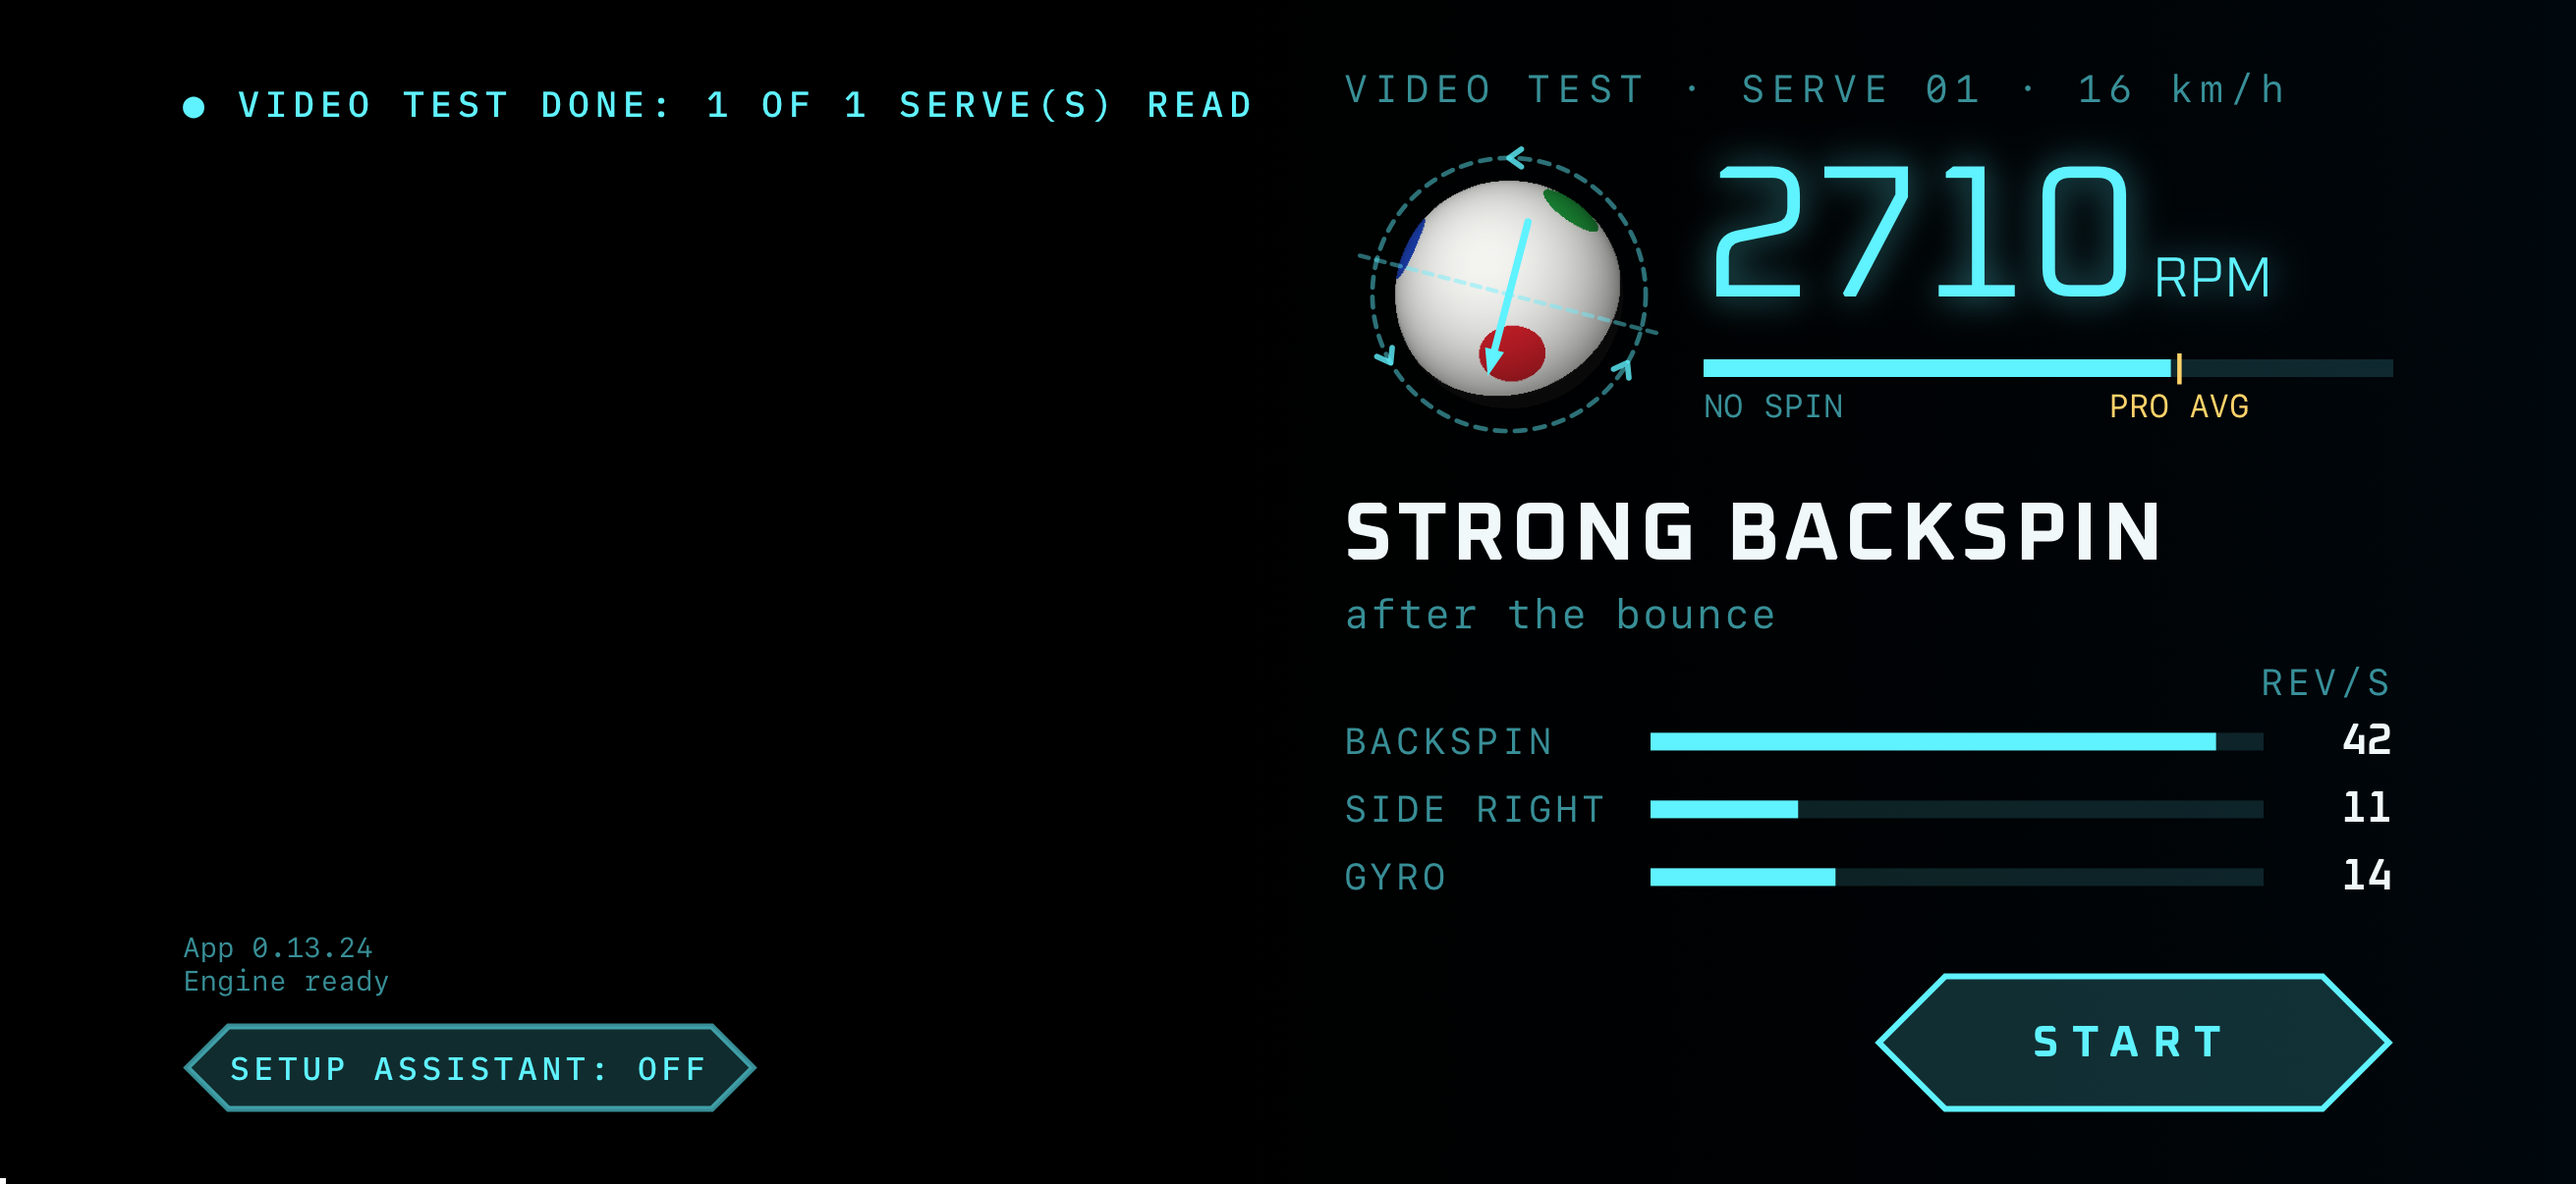
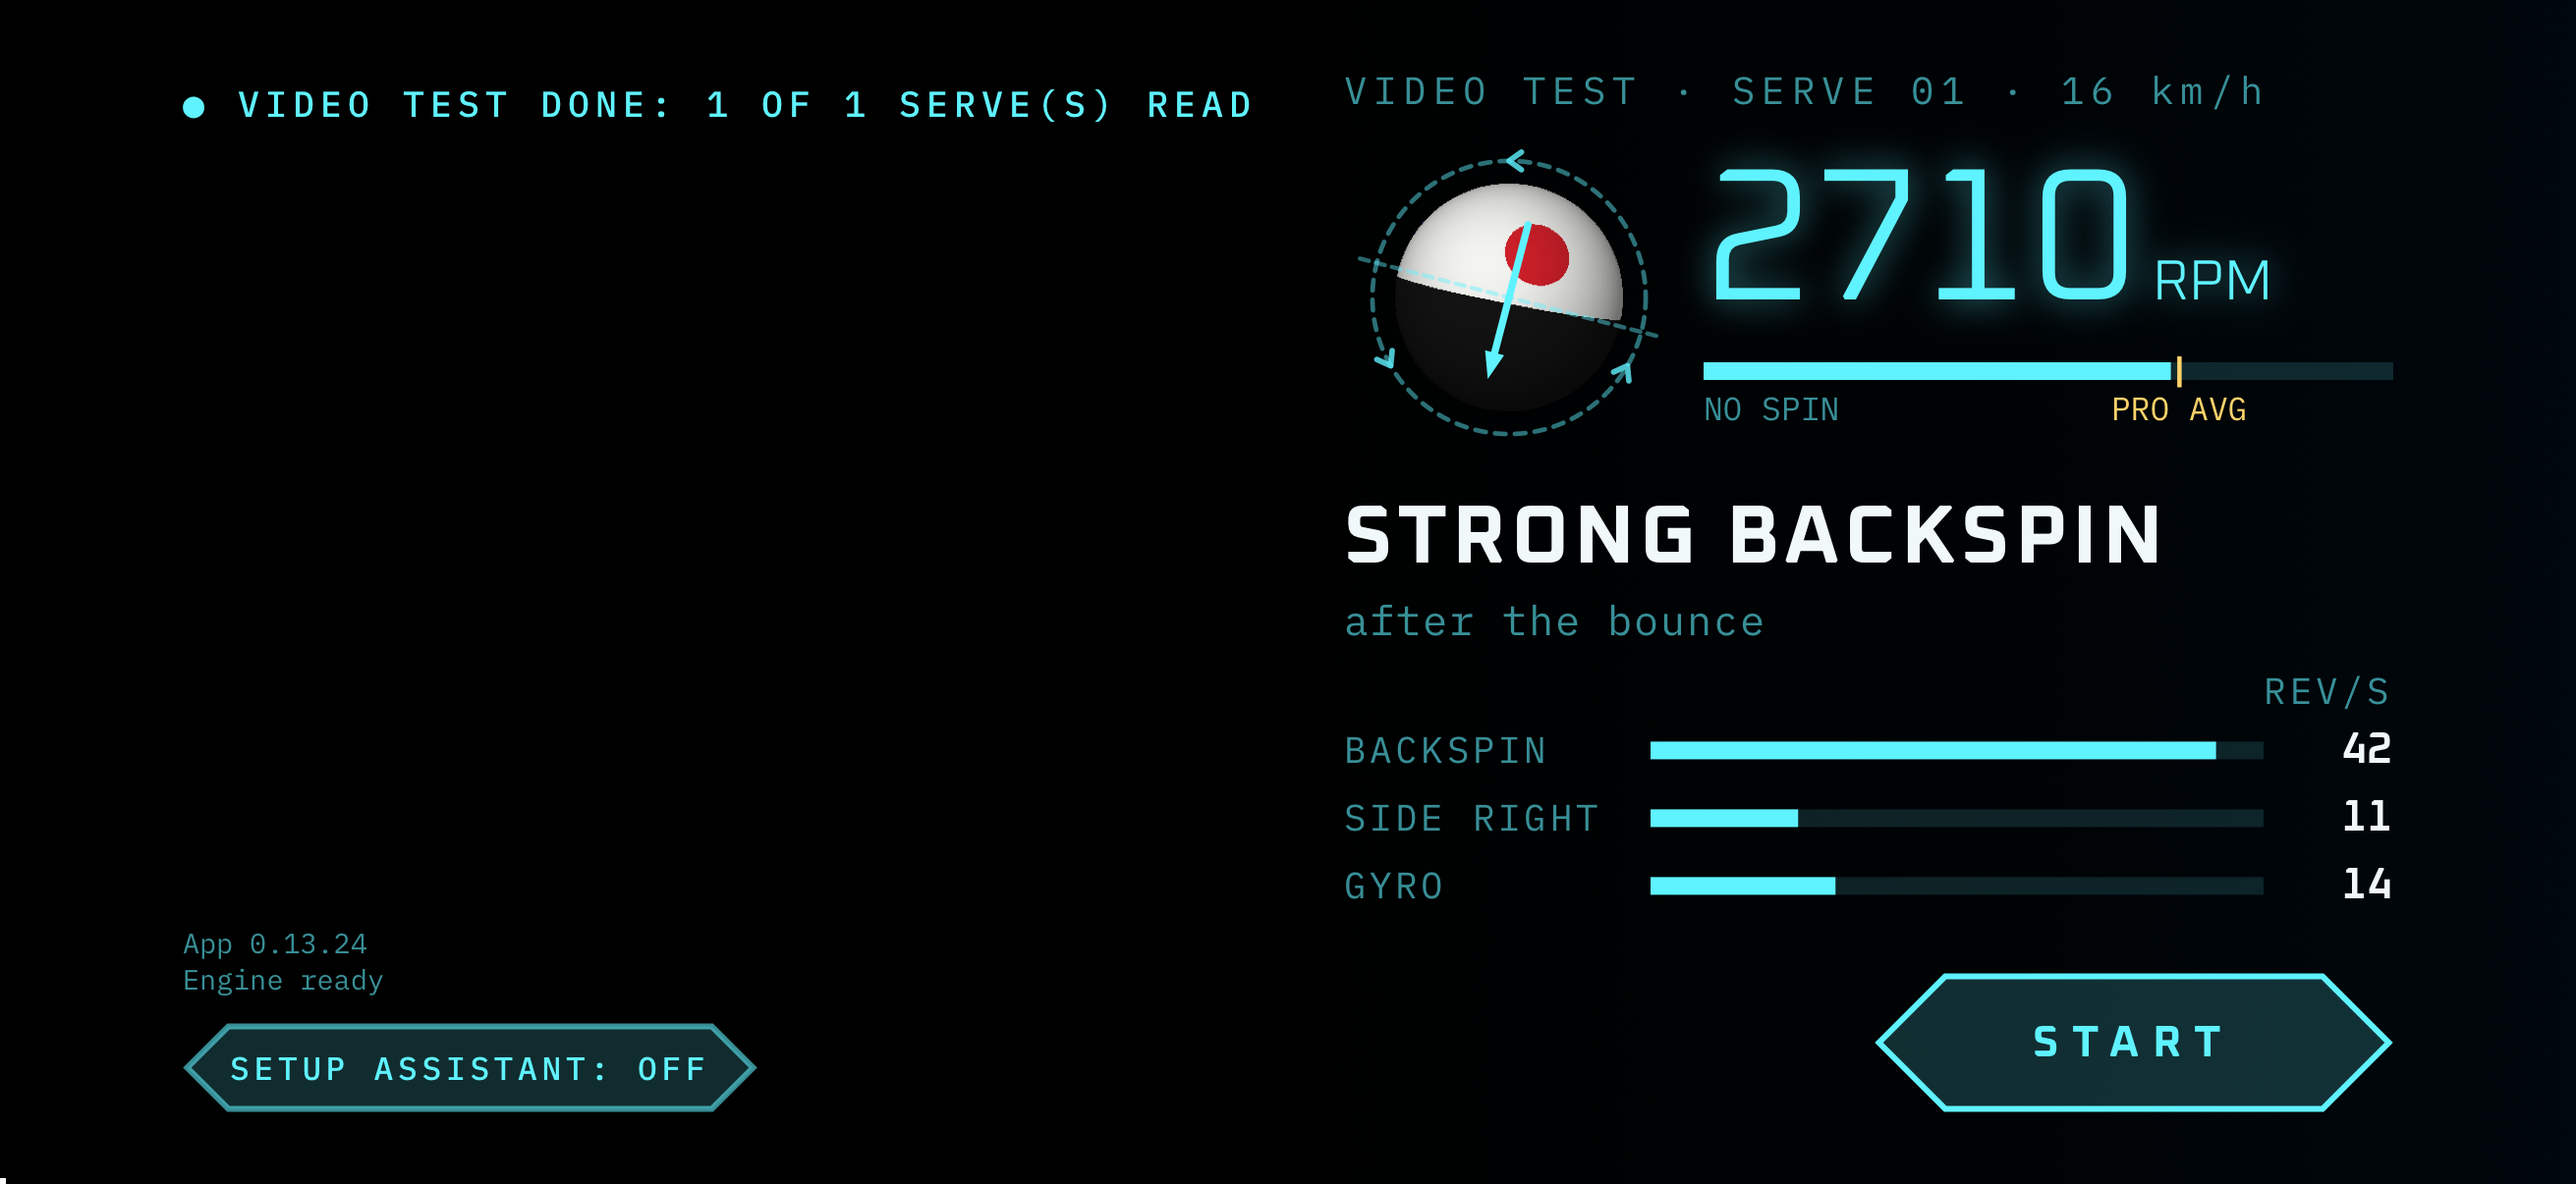
iOS: font names fixed and checked, preview rotation set once the camera runs, live Stop doesn't wait on a decoder it never started

diff --git a/experiments/04-live-coach/ios/ServeCoach/SelfTest.swift b/experiments/04-live-coach/ios/ServeCoach/SelfTest.swift
@@ -14,6 +14,7 @@ enum SelfTest {
         failed = 0; passed = 0
         spinBall()
         words()
+        fonts()
         print("SCTEST \(failed == 0 ? "OK" : "FAILED"): \(passed) passed, \(failed) failed")
         return failed == 0
     }
@@ -66,6 +67,13 @@ enum SelfTest {
         }
         check(hypot(SpinMath.axisOf(Spin(lift: 0, curve: 0, gyro: 46.3, dirKnown: true))![0], SpinMath.axisOf(Spin(lift: 0, curve: 0, gyro: 46.3, dirKnown: true))![1]) < 1e-9, "pure gyro has an axle")
         check(SpinMath.axisOf(Spin(lift: 0, curve: 0, gyro: 0, dirKnown: true)) == nil, "no spin must draw nothing")
+    }
+
+    // ---- the Android app's fonts, loaded (not the system's fallbacks) ----
+    private static func fonts() {
+        check(Hud.mono(12).fontName == "IBMPlexMono-Regular", "mono is \(Hud.mono(12).fontName)")
+        check(Hud.mono(12, medium: true).fontName == "IBMPlexMono-Medium", "mono medium is \(Hud.mono(12, medium: true).fontName)")
+        for w in [300, 600, 700] { check(Hud.display(w, 20).familyName == "Oxanium", "display \(w) is \(Hud.display(w, 20).familyName)") }
     }
 
     // ---- words ----

diff --git a/experiments/04-live-coach/ios/ServeCoach/LiveCoach.swift b/experiments/04-live-coach/ios/ServeCoach/LiveCoach.swift
@@ -93,6 +93,8 @@ final class LiveCoach {
                 if let e { self.previewing = false; self.vc.log("error", "camera error: \(e.localizedDescription)")
                     self.vc.screen.problem("The camera didn't open. Close other camera apps, then open Serve Coach again."); return }
                 self.vc.log("camera", "preview running")
+                // the preview's connection exists only once the camera has an input: landscape right, unrotated
+                if let conn = self.previewLayer?.connection, conn.isVideoRotationAngleSupported(0) { conn.videoRotationAngle = 0 }
                 if self.aiOn { self.startAi() }
             }
         }

diff --git a/experiments/04-live-coach/ios/ServeCoach/Hud.swift b/experiments/04-live-coach/ios/ServeCoach/Hud.swift
@@ -42,7 +42,7 @@ enum Hud {
     /** IBM Plex Mono, regular or medium */
     static func mono(_ size: CGFloat, medium: Bool = false) -> UIFont {
         registerFonts()
-        return UIFont(name: medium ? "IBMPlexMono-Medium" : "IBMPlexMono", size: size)
+        return UIFont(name: medium ? "IBMPlexMono-Medium" : "IBMPlexMono-Regular", size: size)
             ?? UIFont.monospacedSystemFont(ofSize: size, weight: medium ? .medium : .regular)
     }
 

diff --git a/experiments/04-live-coach/ios/ServeCoach/Pipeline.swift b/experiments/04-live-coach/ios/ServeCoach/Pipeline.swift
@@ -91,7 +91,9 @@ final class Pipeline {
 
     func stop() {
         running = false
-        _ = decoderDone.wait(timeout: .now() + 1); _ = linkerDone.wait(timeout: .now() + 1)
+        // the decoder thread runs only for a video test; live there is none to wait for
+        if blocking { _ = decoderDone.wait(timeout: .now() + 1) }
+        _ = linkerDone.wait(timeout: .now() + 1)
         finders.cancelAllOperations()
     }
 

diff --git a/experiments/04-live-coach/ios/docs/STATUS.md b/experiments/04-live-coach/ios/docs/STATUS.md
@@ -12,6 +12,10 @@ Goal: Serve Coach Live on iPhone, the same as the Android app (0.13.24).
     backspin, after the bounce**, 42 / 11 / 14 rev/s. Repeatable.
   - The Android screenshot of this clip (42 / 9 / 13, off the bat) came from the **GPU ("chip") replay path**, which
     runs only with the CHIP WINDOWS developer option on. It is not a reference for the default path.
+  - **Open:** the desktop tool primed the same way (`PRIME=0,72,144,216,291`) gives different candidates from frame 0
+    than primed iOS, although unprimed they match. Cause not found. Android's default path, primed, on this clip has
+    never been run, so "same answer as Android" is not measured for the primed case. Settle it on the Pixel with
+    CHIP WINDOWS off.
 - **Screen** (`Hud.swift`, `HudScreen.swift`, `SpinBall.swift`): layout, fonts, colours, ball and bars as `HudScreen.kt`.
   Compare `docs/shots/ios-video-test-serve05.png` with `app-screenshots/result-backspin-full.png`.
 - **Self-tests** (`-selftest`): the Android `SpinBallTest` ported, plus outcome words, qualifier, tips and the
@@ -30,6 +34,12 @@ Goal: Serve Coach Live on iPhone, the same as the Android app (0.13.24).
 - No GPU tap. The first "Ready" waits for the tracker's background instead of the GPU picture check.
 - CHIP WINDOWS is kept as a stored switch but has no GPU path to turn on.
 - report.json is pretty-printed with 2-space indent (Android: 1 space).
+- Not ported: the load guard (thinning when the phone falls behind) and its "too slow" note.
+
+## Guesses to check by ear or on a device
+- Speech rate 0.5 (Android uses its default rate).
+- The chime: 400 + 1200 Hz, 100 ms on, 100 off, cut at 220 ms (from the spec, unverified against Android).
+- The walking veto has never produced a result in the app (the simulator can't run the model).
 
 ## Not yet verified (needs a physical iPhone)
 - Whether the encoder keeps up with 1080p at 240 fps in real time, and the "behind" / frames-missed numbers.
